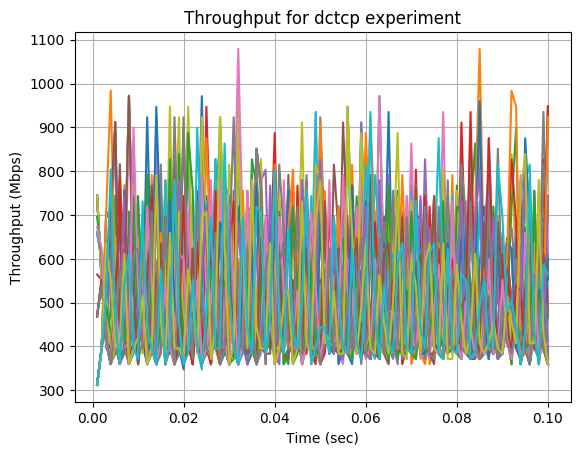
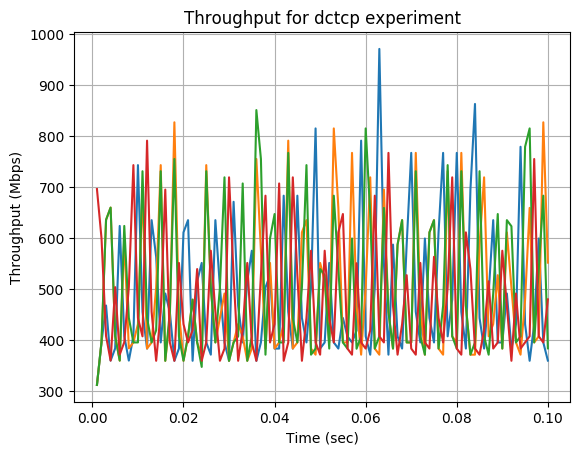
Fix plots

diff --git a/lib/reproduction_sim.py b/lib/reproduction_sim.py
@@ -38,9 +38,9 @@ def main():
         os.system('ns ./lib/reproduction.tcl {0} {1} {2} {3}'.format(congestion_alg, out_dir, \
                                                                 num_clients, num_conn_per_client))
         print("DCTCP Simulation Done!")
-        dctcp_cdf = benchmark_tools.plot_rtt(congestion_alg, out_dir, log_plot=False)
+        dctcp_cdf = benchmark_tools.plot_rtt(congestion_alg, out_dir, log_plot=False, nplot=4)
         dctcp_thp = benchmark_tools.plot_throughput(congestion_alg, num_clients, out_dir, \
-                                                conn_per_client=num_conn_per_client)
+                                                conn_per_client=num_conn_per_client, nplot=4)
         benchmark_tools.plot_queue(congestion_alg, out_dir)
 
     if args.vegas:
@@ -48,9 +48,9 @@ def main():
         os.system('ns ./lib/reproduction.tcl {0} {1} {2} {3}'.format(congestion_alg, out_dir, \
                                                 num_clients, num_conn_per_client))
         print("Vegas Simulation Done!")
-        vegas_cdf = benchmark_tools.plot_rtt(congestion_alg, out_dir, log_plot=False)
+        vegas_cdf = benchmark_tools.plot_rtt(congestion_alg, out_dir, log_plot=False, nplot=4)
         vegas_thp = benchmark_tools.plot_throughput(congestion_alg, num_clients, out_dir, \
-                                                conn_per_client=num_conn_per_client)
+                                                conn_per_client=num_conn_per_client, nplot=4)
         benchmark_tools.plot_queue(congestion_alg, out_dir)
 
     if args.timely:
@@ -58,9 +58,9 @@ def main():
         os.system('ns ./lib/reproduction.tcl {0} {1} {2} {3}'.format(congestion_alg, out_dir, \
                                                 num_clients, num_conn_per_client))
         print("Timely Simulation Done!")
-        timely_cdf = benchmark_tools.plot_rtt(congestion_alg, out_dir, log_plot=False)
+        timely_cdf = benchmark_tools.plot_rtt(congestion_alg, out_dir, log_plot=False, nplot=4)
         timely_thp = benchmark_tools.plot_throughput(congestion_alg, num_clients, out_dir, \
-                                        conn_per_client=num_conn_per_client)
+                                        conn_per_client=num_conn_per_client, nplot=4)
         benchmark_tools.plot_rate(congestion_alg, num_clients, out_dir, \
                             conn_per_client=num_conn_per_client, nplot=4)
         benchmark_tools.plot_queue(congestion_alg, out_dir)
